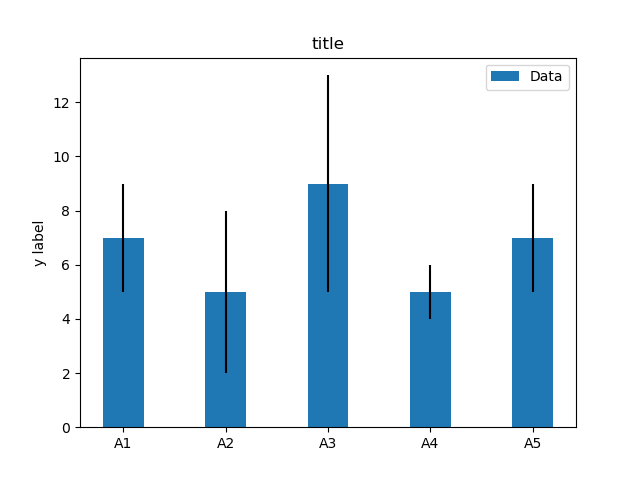
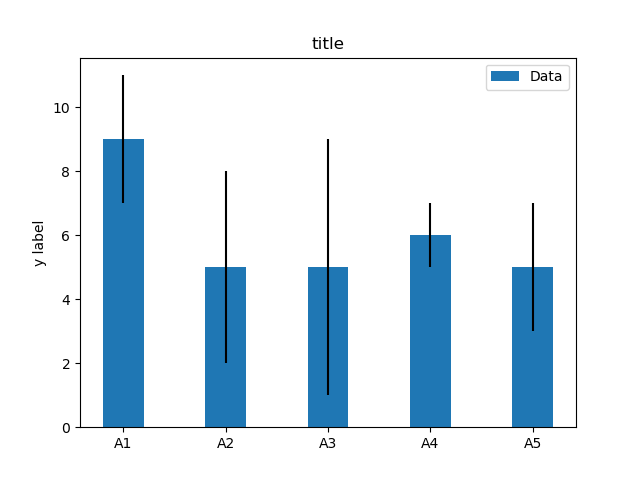
first commit

diff --git a/example.py b/example.py
@@ -2,7 +2,7 @@ import numpy as np
 import matplotlib.pyplot as plt
 
 labels = ['A1', 'A2', 'A3', 'A4', 'A5']
-m_means = [7,5,9,5,7]
+m_means = [9,5,5,6,5]
 m_std = [2, 3, 4, 1, 2]
 width = 0.40       # the width of the bars
 

diff --git a/README.md b/README.md
@@ -1,4 +1,4 @@
-# Matplotlib no 74 
+# Matplotlib no 75 
 
 python example
 
